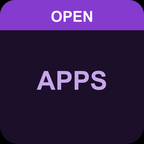
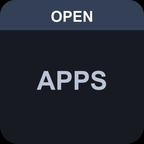
APPS key on SimDeck: slate #344055
Its purple sat close to the orchid GSX key.

Changed region(s): [[0.0, 0.0, 1.0, 0.2222], [0.25, 0.4722, 0.75, 0.6389]]

diff --git a/tools/testbed_images/panel_keys.py b/tools/testbed_images/panel_keys.py
@@ -28,12 +28,12 @@ import colorsys
 # sampled from their old key pictures; ChasePlane is its Remote's Pilot cyan, as on the live deck.
 APPS = {
     "chaseplane": (190, 79), "sayintentions": (43, 75), "anyflight": (220, 85), "gsx": (295, 60),
-    "ifly": (355, 75), "weather": (130, 55), "apps": (270, 60), "screenshot": (320, 70), "simdeck": (0, 0),
+    "ifly": (355, 75), "weather": (130, 55), "apps": (218, 24), "screenshot": (320, 70), "simdeck": (0, 0),
     # The CP DECK key: its own amber, because the WX Deck keys share ChasePlane's cyan (owner, 2026-11-01).
     "cpdeck": (41, 100),
 }
 # A band color the owner picked exactly, instead of the recipe's 52% lightness.
-EXACT_BAND = {"cpdeck": (0xFF, 0xAE, 0x03)}
+EXACT_BAND = {"cpdeck": (0xFF, 0xAE, 0x03), "apps": (0x34, 0x40, 0x55)}
 
 def hsl(h, s, l):
     r, g, b = colorsys.hls_to_rgb(h / 360, l / 100, s / 100)
